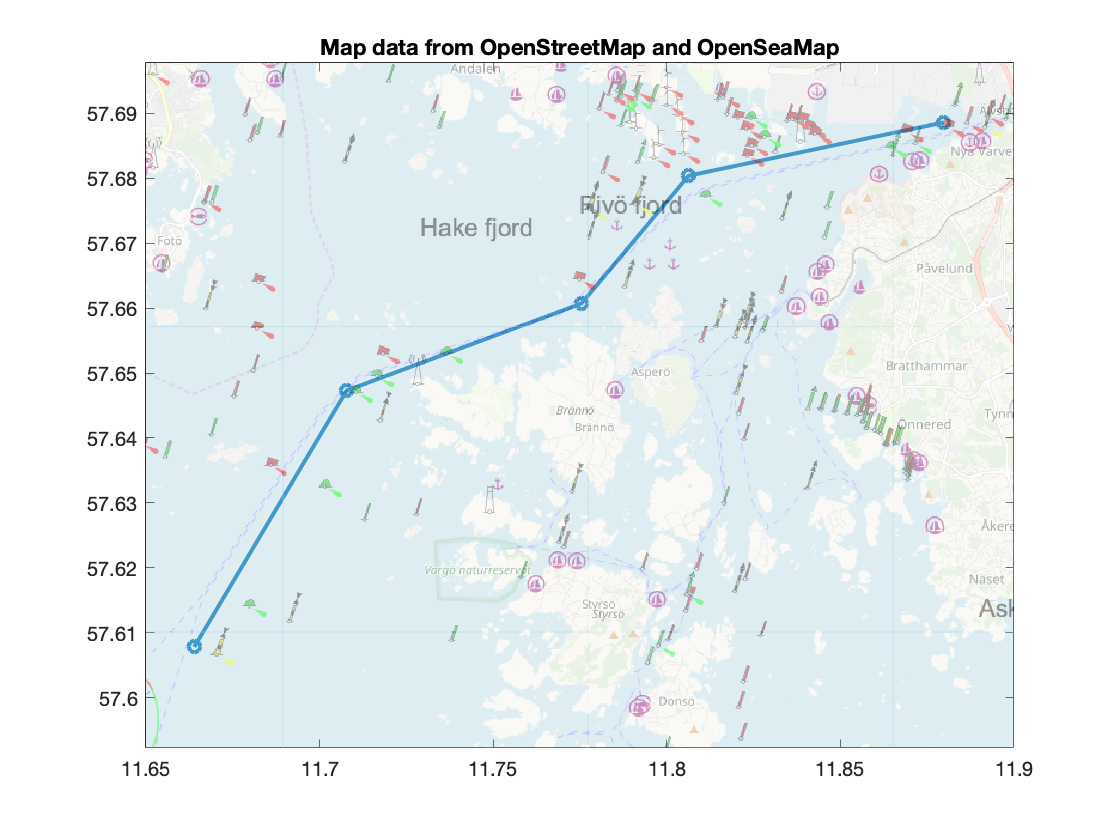
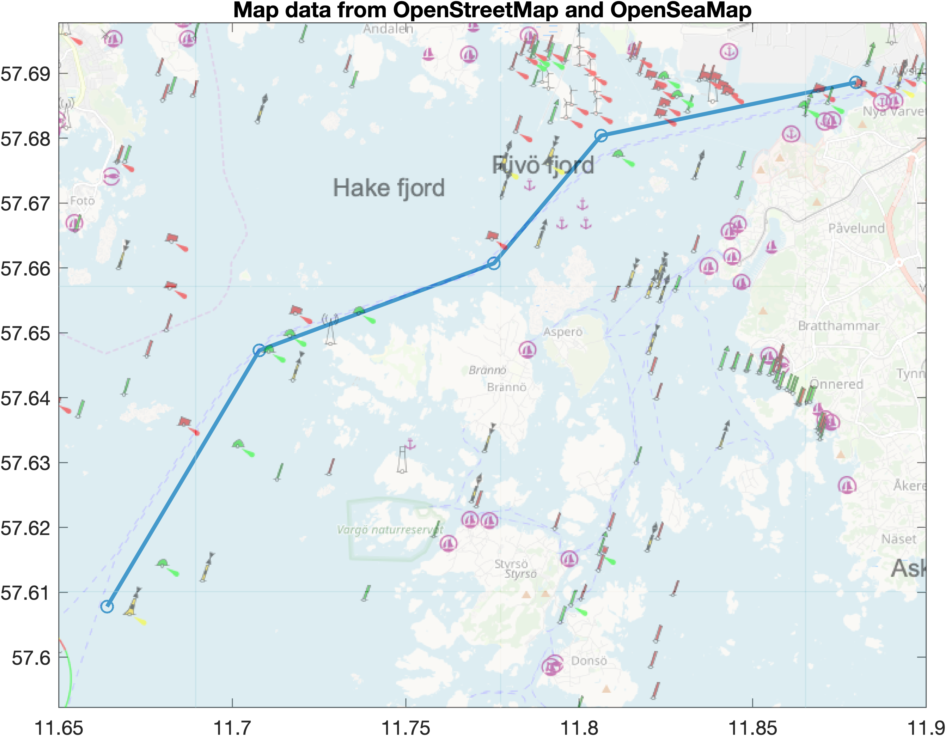
Update README and example map image

diff --git a/plot_openstreetmap.m b/plot_openstreetmap.m
@@ -17,9 +17,10 @@ function hgrp = plot_openstreetmap(varargin)
 %
 %    x = [11.6639 11.7078 11.7754 11.8063 11.8797];
 %    y = [57.6078 57.6473 57.6607 57.6804 57.6886];
-%    figure; plot(x, y, 'o-', 'LineWidth', 2);
+%    figure('Color', 'w'); plot(x, y, 'o-', 'LineWidth', 2);
 %    hBase = plot_openstreetmap('Alpha', 0.4, 'Scale', 2)
 %    hSea  = plot_openstreetmap('Alpha', 0.5, 'Scale', 2, 'BaseUrl', "http://tiles.openseamap.org/seamark")
+%    title('Map data from OpenStreetMap and OpenSeaMap');
 %
 
 p = inputParser;

diff --git a/README.md b/README.md
@@ -11,6 +11,22 @@ y = [57.6078 57.6473 57.6607 57.6804 57.6886];
 figure; plot(x, y, 'o-', 'LineWidth', 2);
 hBase = plot_openstreetmap('Alpha', 0.4, 'Scale', 2);  % Basemap.
 hSea  = plot_openstreetmap('Alpha', 0.5, 'Scale', 2, 'BaseUrl', "http://tiles.openseamap.org/seamark");  % Sea marks.
+title('Map data from OpenStreetMap and OpenSeaMap');
+```
+
+Export image using [export_fig](https://github.com/altmany/export_fig), to get anti-aliasing:
+
+```matlab
+gcf.Color = 'none'; gca.Color = 'none';
+export_fig('example-map.png', '-m2', '-a4', '-transparent')
 ```
 
 ![Map](example-map.png "Example map")
+
+
+# Acknowledgements
+
+This software was inspired by, and uses code from, the following open-source projects:
+* [plot_google_map](https://github.com/zoharby/plot_google_map) by Zohar Bar-Yehuda
+* [Matlab-Map](https://github.com/bastibe/Map-Matlab) by Bastian Bechtold
+* [MAKESCALE](http://www.mathworks.com/matlabcentral/fileexchange/33545-automatic-map-scale-generation) by Jonathan Sullivan
